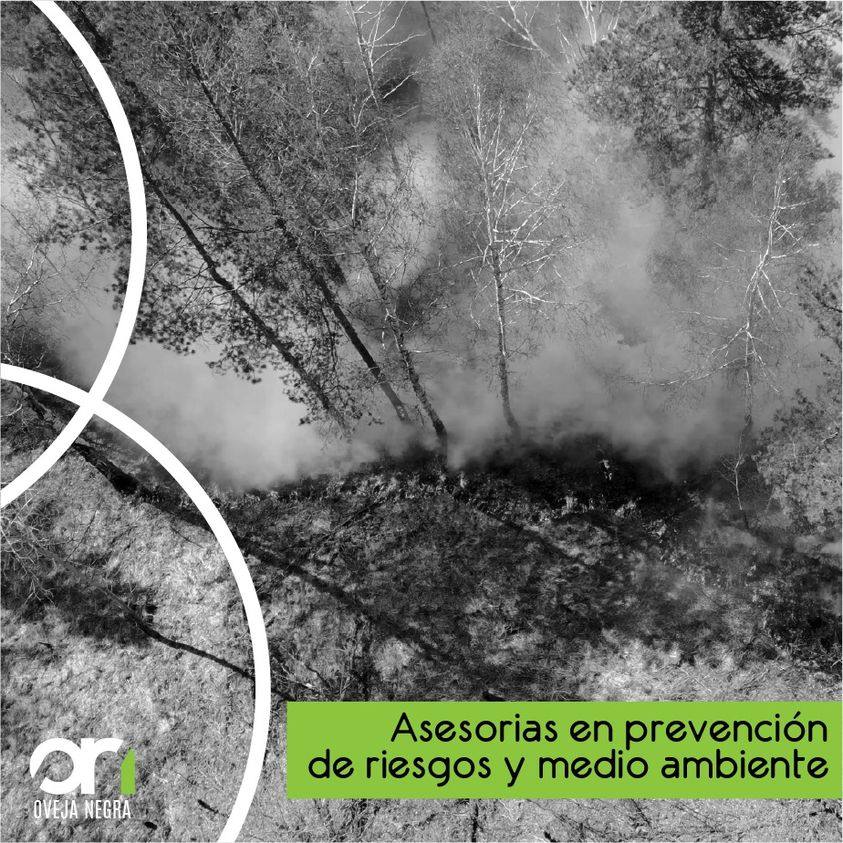
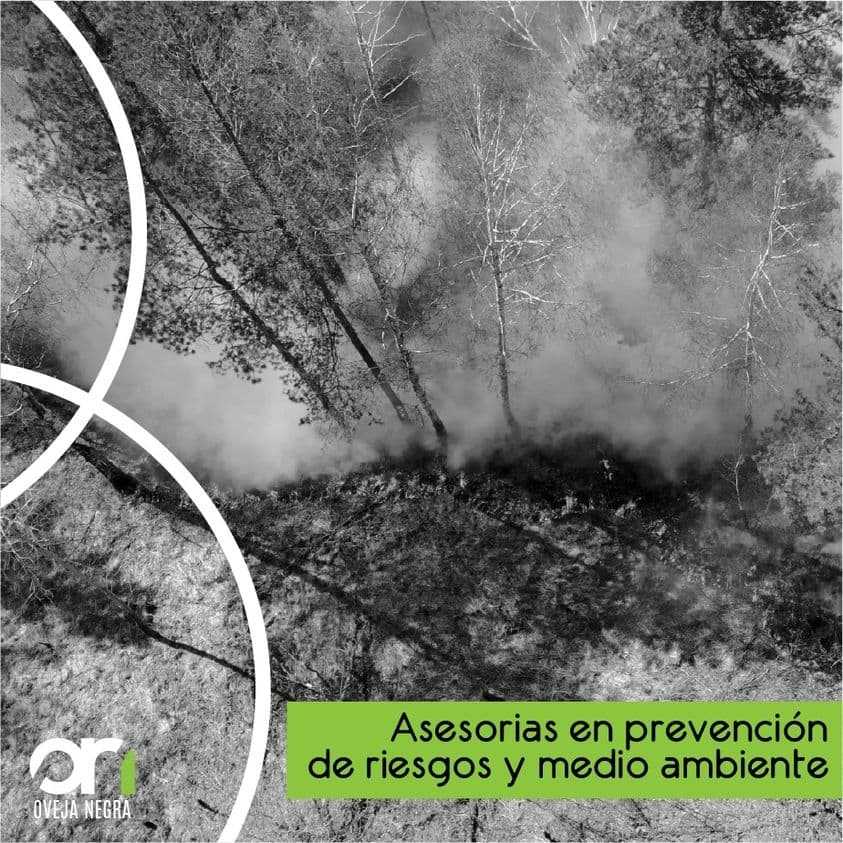
version reducida

diff --git a/blog.html b/blog.html
@@ -71,7 +71,7 @@
                 </div>
             </div>
             <div class="card" style="width: 18rem;">
-                <img src="img/guia1.PNG" class="card-img-top" alt="post2">
+                <img src="img/guia1.jpg" class="card-img-top" alt="post2">
                 <div class="card-body">
                     <div class="card-body-cuerpo">
                         <h5 class="card-title">Riesgos Psicosociales</h5>
